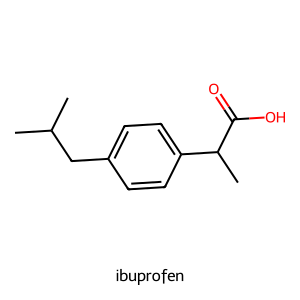
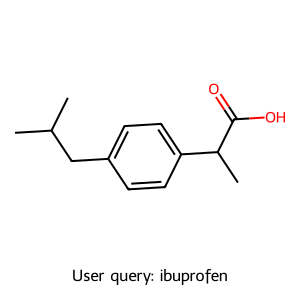
make it work with new USYD security system

Changed region(s): [[0.24, 0.9, 0.78, 0.96]]

diff --git a/apps/app4/templates/index.html b/apps/app4/templates/index.html
@@ -46,7 +46,9 @@
     <!-- Main content -->
     <div class="container">
         <h1>Model 4: Draw a molecule or drug by name</h1>
-        <p>Put a drug or molecule name (e.g. aspirin) in the box, press Predict to return an image of the molecule.</p>
+        <p>Put a drug or molecule name (e.g. aspirin) in the box, press <B>Predict</B> to return an image of the molecule.</p>
+	<p>The tool uses <a href="https://pubchempy.readthedocs.io/en/latest/">PubChemPy</a> to search <a href="https://pubchem.ncbi.nlm.nih.gov">PubChem</a> for the name and retrieves the first associated SMILES structure.</p>
+	<p>It then creates a molecule from the retrieved SMILES using Rdkit and renders it on the result page.</p>
         <p><a href="../tools.html">Back to Model List</a>
         <form method="POST" action="/Model4/predict">
             <label for="name">Enter molecule name:</label><br>

diff --git a/apps/app4/model.py b/apps/app4/model.py
@@ -9,7 +9,8 @@ def draw_mol_from_name(name):
         if compound:
             smiles = compound[0].canonical_smiles
             mol = Chem.MolFromSmiles(smiles)
-            mol_img = Draw.MolToImage(mol, size=(300, 300), legend=name)  # Create an image
+            legend_text = f"User query: {name}"
+            mol_img = Draw.MolToImage(mol, size=(300, 300), legend=legend_text)  # Create an image
 
             # No need to convert to PIL image; it already is one
             return mol_img

diff --git a/apps/app4/test_model.py b/apps/app4/test_model.py
@@ -1,7 +1,9 @@
 # This is just for testing the models locally.
 from model import run_prediction_model
 
-test_smiles = "COc1ccc(C(=O)[O-])cc1"  # A valid SMILES string
+test_smiles = "panadol"
+
+#test_smiles = "COc1ccc(C(=O)[O-])cc1"  # A valid SMILES string
 invalid_smiles = "invalid"  # An invalid SMILES string
 
 # Test with a valid SMILES string
